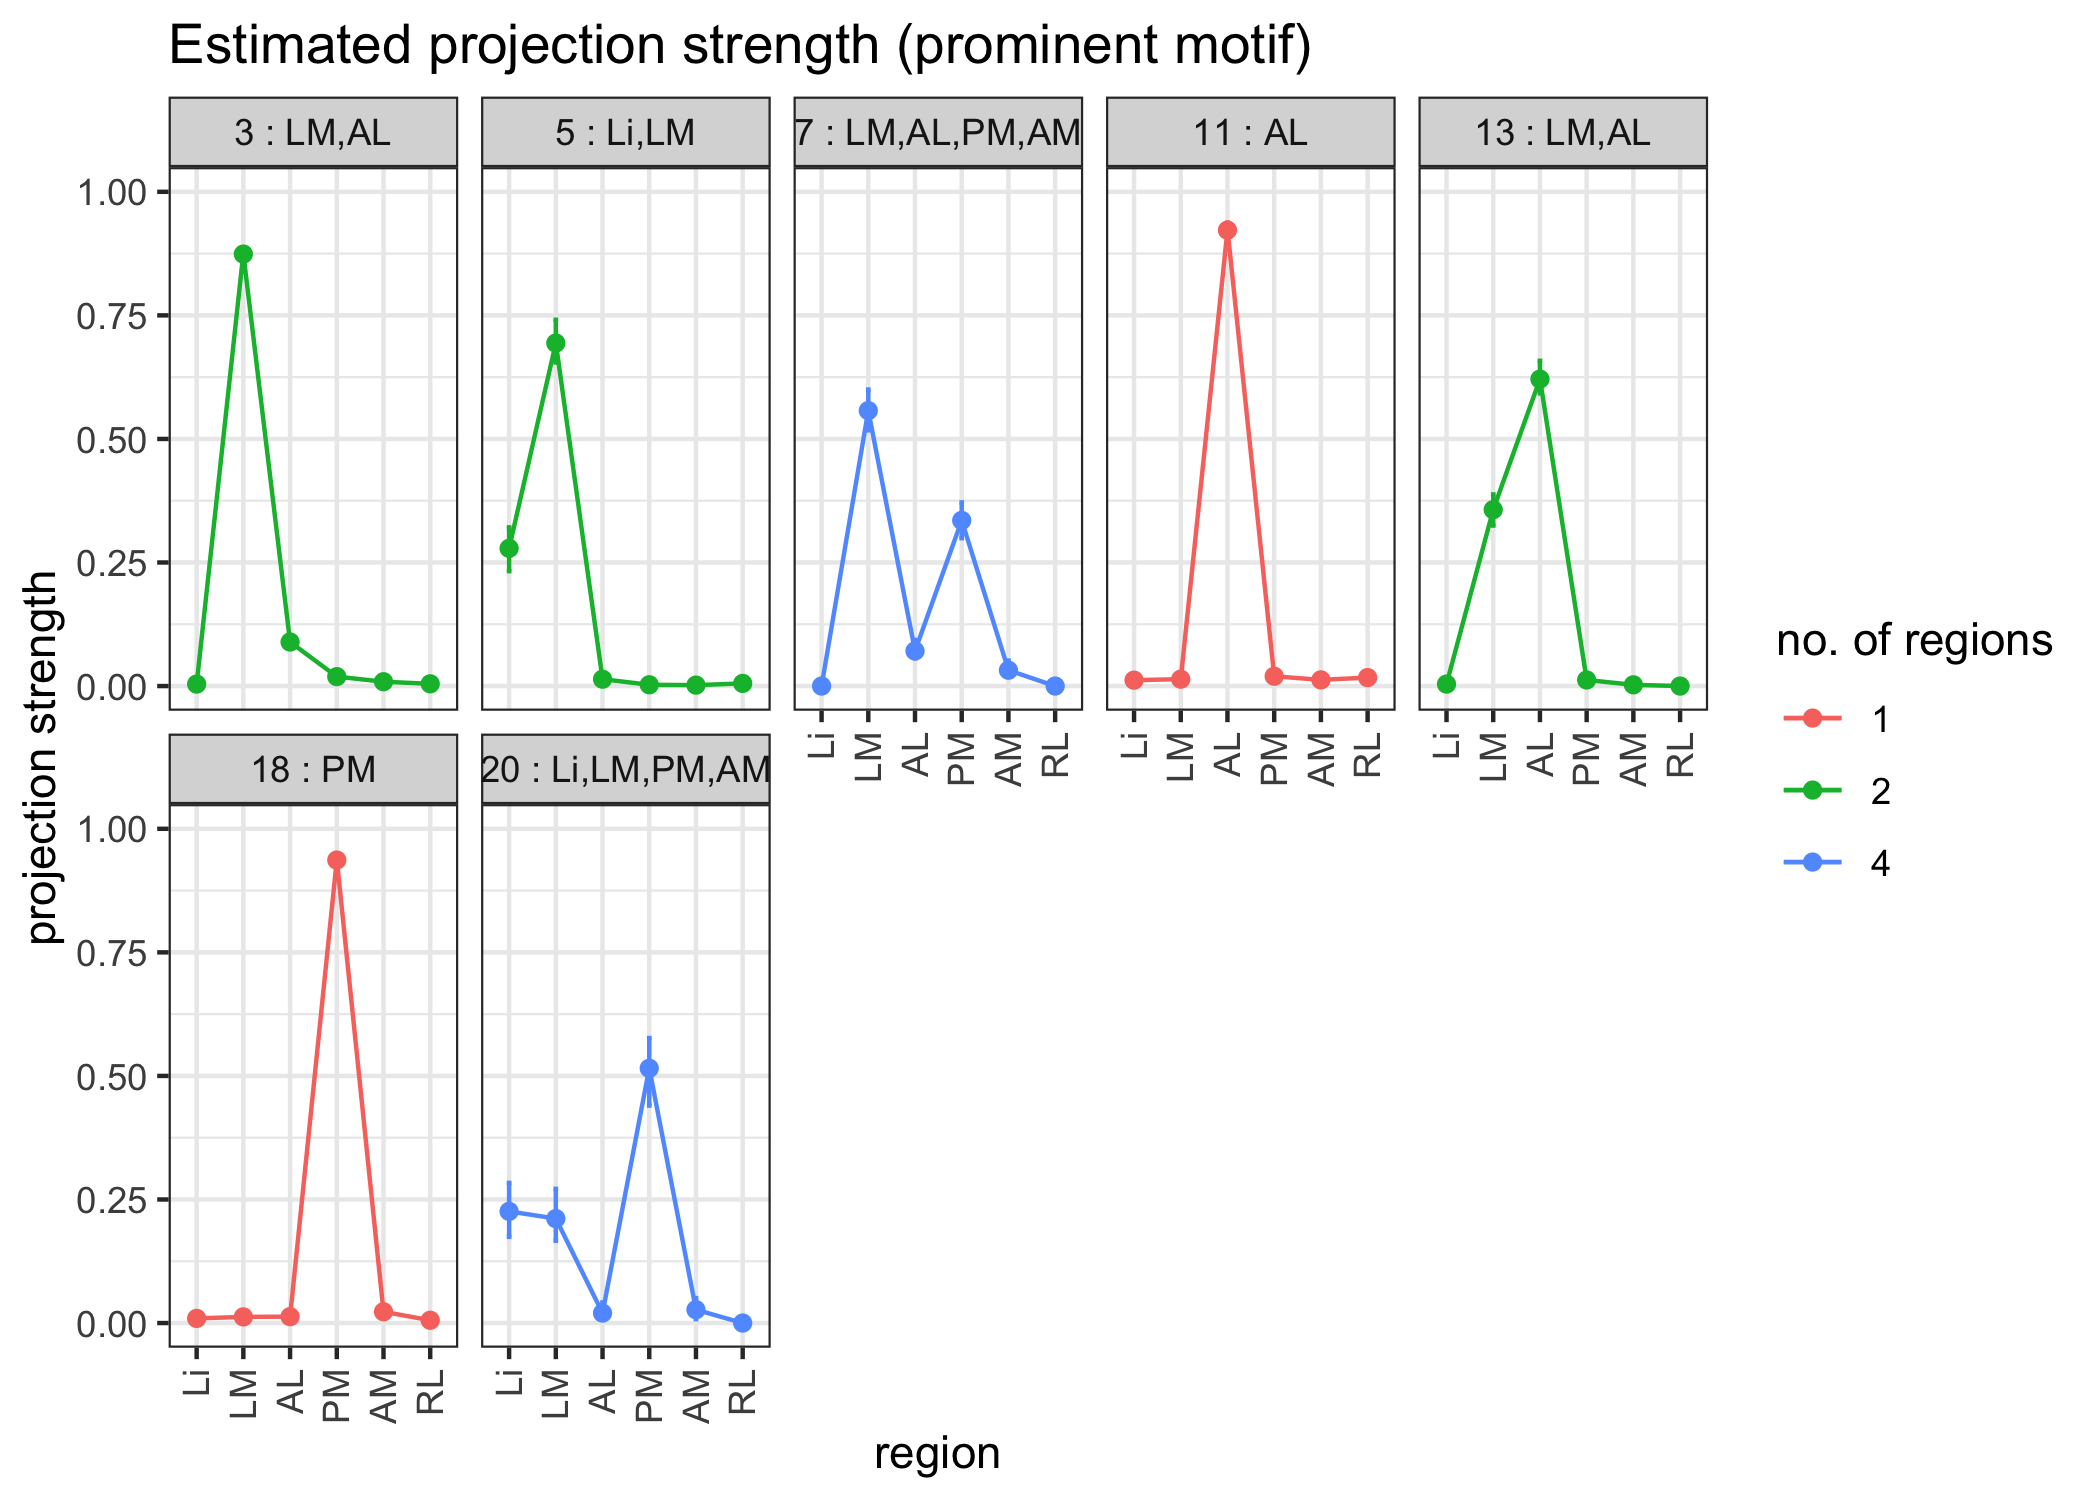
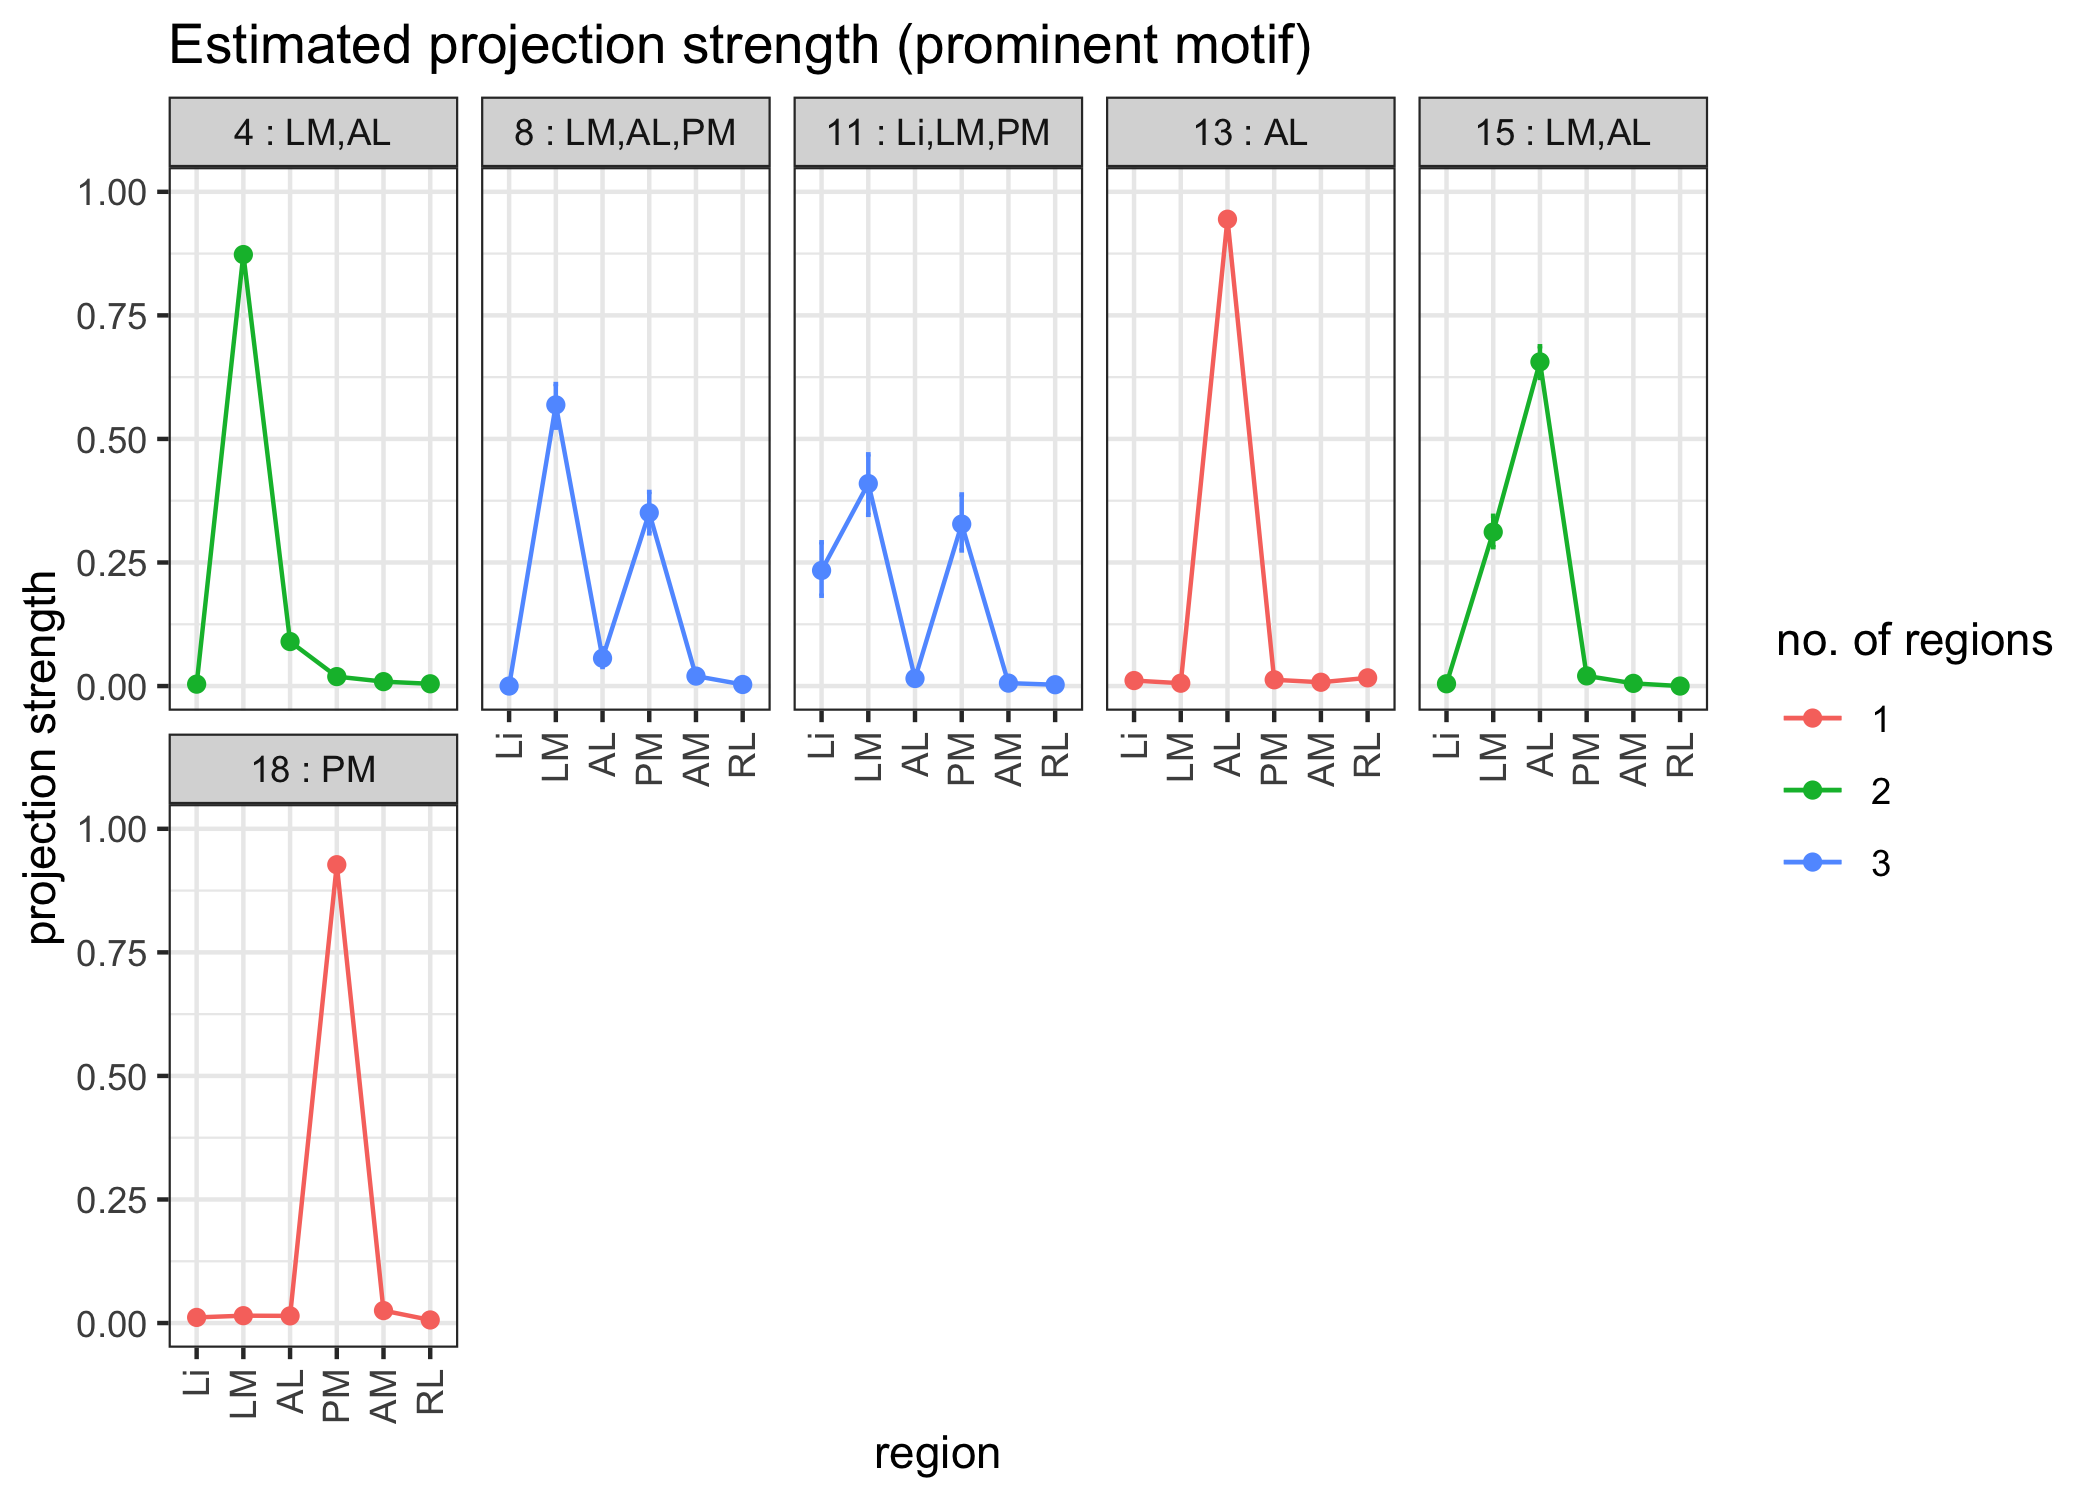
changed default and increased mcmc iterations

diff --git a/README.md b/README.md
@@ -12,7 +12,9 @@ investigates differences across experiments.
 Demo scripts showcasing the functionality of HBMAP are available here:
 
 <!-- badges: start -->
-[![Launch Rstudio Binder](http://mybinder.org/badge_logo.svg)](https://mybinder.org/v2/gh/EdwardAgboraw/HBMAP_binder/main?urlpath=rstudio)
+
+[![Launch Rstudio
+Binder](http://mybinder.org/badge_logo.svg)](https://mybinder.org/v2/gh/EdwardAgboraw/HBMAP_binder/main?urlpath=rstudio)
 <!-- badges: end -->
 
 ## Installation
@@ -30,7 +32,9 @@ First, we load the data and necessary functions for MCMC sampling.
 ``` r
 # load required packages
 library(ggplot2)
+#> Warning: package 'ggplot2' was built under R version 4.3.3
 library(ggrepel)
+#> Warning: package 'ggrepel' was built under R version 4.3.3
 library(dplyr)
 #> 
 #> Attaching package: 'dplyr'
@@ -40,9 +44,6 @@ library(dplyr)
 #> The following objects are masked from 'package:base':
 #> 
 #>     intersect, setdiff, setequal, union
-```
-
-``` r
 library(HBMAP)
 ```
 
@@ -116,13 +117,13 @@ b_gamma = 2
 ``` r
 # ---- parameters to pass to the main function ------
 # mcmc setup
-mcmc_list = list(number_iter = 5000, thinning = 1, burn_in = 4000, adaptive_prop = 0.0001,
+mcmc_list = list(number_iter = 20000, thinning = 5, burn_in = 5000, adaptive_prop = 0.0001,
                  auto_save = FALSE,
                  save_path = NULL,
                  save_frequency = 1000
                  )
 # prior parameters, default values will be used if not provided
-prior_list = list(a_gamma = a_gamma, b_gamma = b_gamma, lb_gamma = 1, a = 2, tau = 0.4, nu = 1/20,
+prior_list = list(a_gamma = a_gamma, b_gamma = b_gamma, lb_gamma = 1, a = 2, tau = 0.2, nu = 1/20,
                   a_alpha = a_alpha, b_alpha = 1, a_alpha0 = a_alpha0, b_alpha0 = 1)
 
 
@@ -236,12 +237,12 @@ psm_hans_plot
 
 ``` r
 
-mcmc_list = list(number_iter = 5000, thinning = 1, burn_in = 4000, adaptive_prop = 0.0001,
+mcmc_list = list(number_iter = 15000, thinning = 1, burn_in = 5000, adaptive_prop = 0.0001,
                  auto_save = FALSE,
                  save_path = NULL,
                  save_frequency = 1000
                  )
-prior_list = list(a_gamma = a_gamma, b_gamma = b_gamma, lb_gamma = 1, a = 2, tau = 0.4, nu = 1/20,
+prior_list = list(a_gamma = a_gamma, b_gamma = b_gamma, lb_gamma = 1, a = 2, tau = 0.2, nu = 1/20,
                   a_alpha = a_alpha, b_alpha = 1, a_alpha0 = a_alpha0, b_alpha0 = 1)
 
 # for the post-processing step, there is no label switching and we can make inference for each cluster based on q, gamma and weights
@@ -399,7 +400,7 @@ We identify variable motifs by comparing the variance of the
 brain-specific weights across mice with a null model.
 
 ``` r
-mcmc_list = list(number_iter = 5000, thinning = 1, burn_in = 4000, adaptive_prop = 0.0001,
+mcmc_list = list(number_iter = 15000, thinning = 5, burn_in = 5000, adaptive_prop = 0.0001,
                  auto_save = FALSE,
                  save_path = NULL,
                  save_frequency = 1000
@@ -437,7 +438,7 @@ local_weights_analysis_vc %>%
   xlab('variance of local weights')+
   ylab('probability of observing larger variance')+
   geom_hline(yintercept = 0.95)
-#> Warning: ggrepel: 6 unlabeled data points (too many overlaps). Consider
+#> Warning: ggrepel: 10 unlabeled data points (too many overlaps). Consider
 #> increasing max.overlaps
 ```
 
@@ -460,8 +461,6 @@ local_weights_analysis_vc %>%
   ylab('probability of global weight>0.02')+
   geom_hline(yintercept = 0.95) +
   geom_vline(xintercept = 0.02)
-#> Warning: ggrepel: 8 unlabeled data points (too many overlaps). Consider
-#> increasing max.overlaps
 ```
 
 <img src="man/figures/README-variable motif plot-2.png" width="60%" style="display: block; margin: auto;" />
